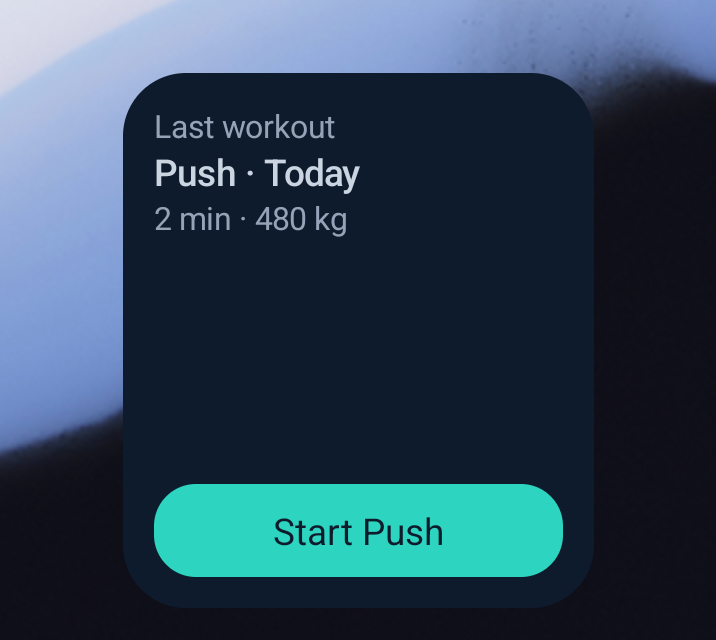
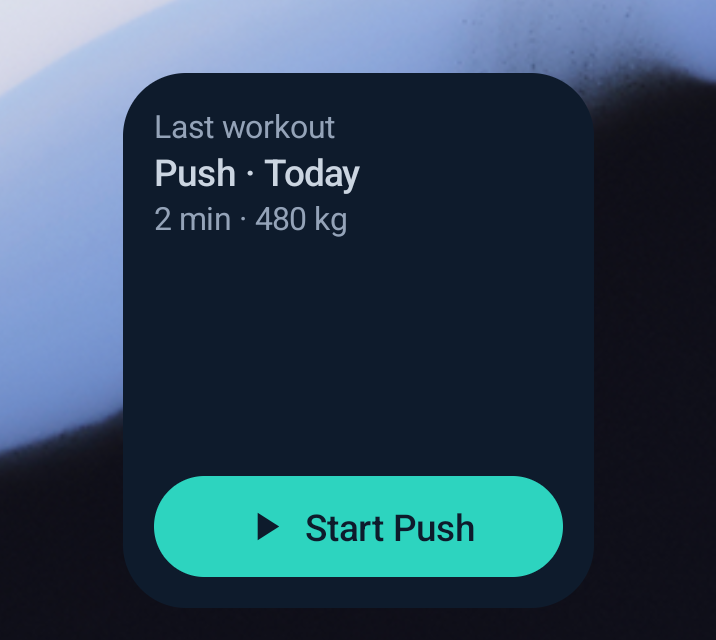
feat(widget): put the play triangle on the widget's button
The design sketched the button as "play + routine" but it was built as
text only. The play triangle makes the action obvious at a glance. Glance
1.2's Button has no icon, so the button is a row with the triangle and
the text; with no routine to start it has no triangle. New screenshot for
the README.

Claude-Session: https://claude.ai/code/session_017HXKoSbM4rq7wd3PVDRGnb

diff --git a/feature/widget/src/main/kotlin/com/japl/repzi/feature/widget/HomeWidgetContent.kt b/feature/widget/src/main/kotlin/com/japl/repzi/feature/widget/HomeWidgetContent.kt
@@ -4,18 +4,22 @@ import androidx.compose.runtime.Composable
 import androidx.compose.ui.graphics.Color
 import androidx.compose.ui.unit.dp
 import androidx.compose.ui.unit.sp
-import androidx.glance.Button
-import androidx.glance.ButtonDefaults
 import androidx.glance.GlanceModifier
+import androidx.glance.Image
+import androidx.glance.ImageProvider
 import androidx.glance.action.Action
 import androidx.glance.action.clickable
 import androidx.glance.appwidget.cornerRadius
 import androidx.glance.background
+import androidx.glance.layout.Alignment
 import androidx.glance.layout.Column
+import androidx.glance.layout.Row
 import androidx.glance.layout.Spacer
 import androidx.glance.layout.fillMaxSize
 import androidx.glance.layout.fillMaxWidth
 import androidx.glance.layout.padding
+import androidx.glance.layout.size
+import androidx.glance.layout.width
 import androidx.glance.text.FontWeight
 import androidx.glance.text.Text
 import androidx.glance.text.TextStyle
@@ -58,12 +62,30 @@ fun HomeWidgetContent(
             Text(it, style = TextStyle(color = ColorProvider(Slate), fontSize = 12.sp), maxLines = 1)
         }
         Spacer(GlanceModifier.defaultWeight())
-        Button(
-            text = texts.button,
-            onClick = buttonAction,
-            modifier = GlanceModifier.fillMaxWidth(),
-            colors = ButtonDefaults.buttonColors(backgroundColor = ColorProvider(Teal), contentColor = ColorProvider(Navy)),
-            maxLines = 1,
-        )
+        ActionButton(texts.button, showPlay = target !is WidgetTarget.NoRoutines, onClick = buttonAction)
+    }
+}
+
+/**
+ * Glance 1.2's Button has no icon, so this is a row with the play triangle and the text. The triangle says "go" at a
+ * glance; with no routine the button only opens the app, so it has none.
+ */
+@Composable
+private fun ActionButton(text: String, showPlay: Boolean, onClick: Action) {
+    Row(
+        modifier = GlanceModifier
+            .fillMaxWidth()
+            .background(ColorProvider(Teal))
+            .cornerRadius(24.dp)
+            .padding(horizontal = 12.dp, vertical = 10.dp)
+            .clickable(onClick),
+        verticalAlignment = Alignment.CenterVertically,
+        horizontalAlignment = Alignment.CenterHorizontally,
+    ) {
+        if (showPlay) {
+            Image(ImageProvider(R.drawable.ic_widget_play), contentDescription = null, modifier = GlanceModifier.size(18.dp))
+            Spacer(GlanceModifier.width(6.dp))
+        }
+        Text(text, style = TextStyle(color = ColorProvider(Navy), fontSize = 14.sp, fontWeight = FontWeight.Medium), maxLines = 1)
     }
 }
